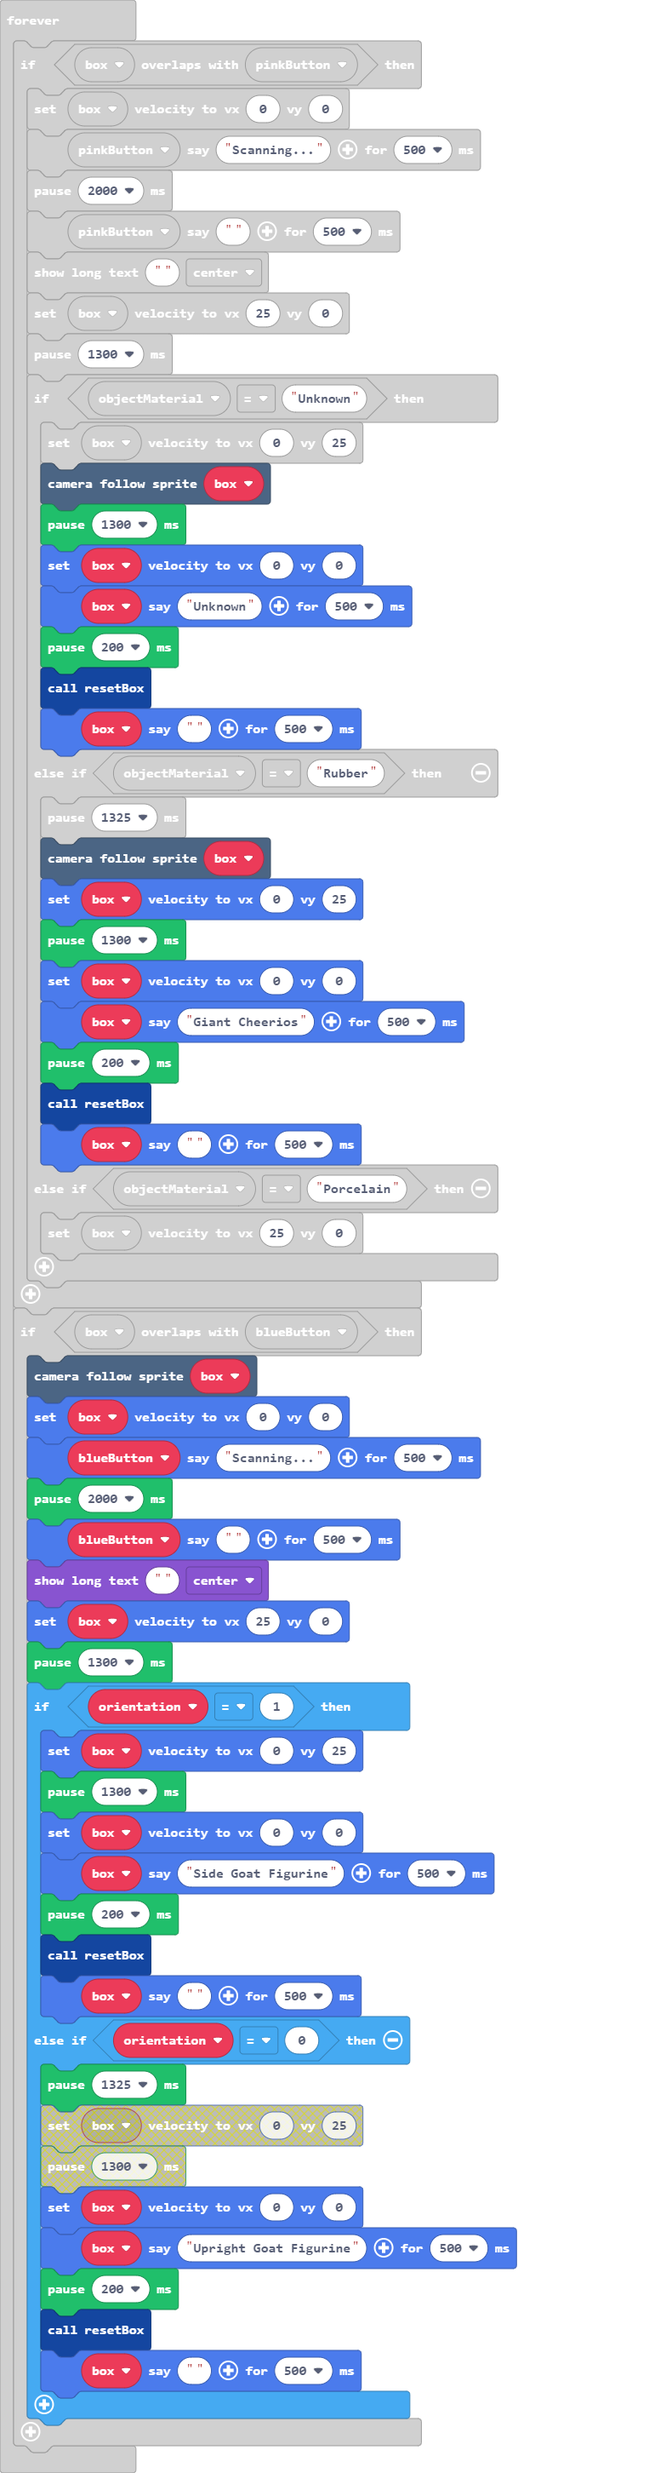
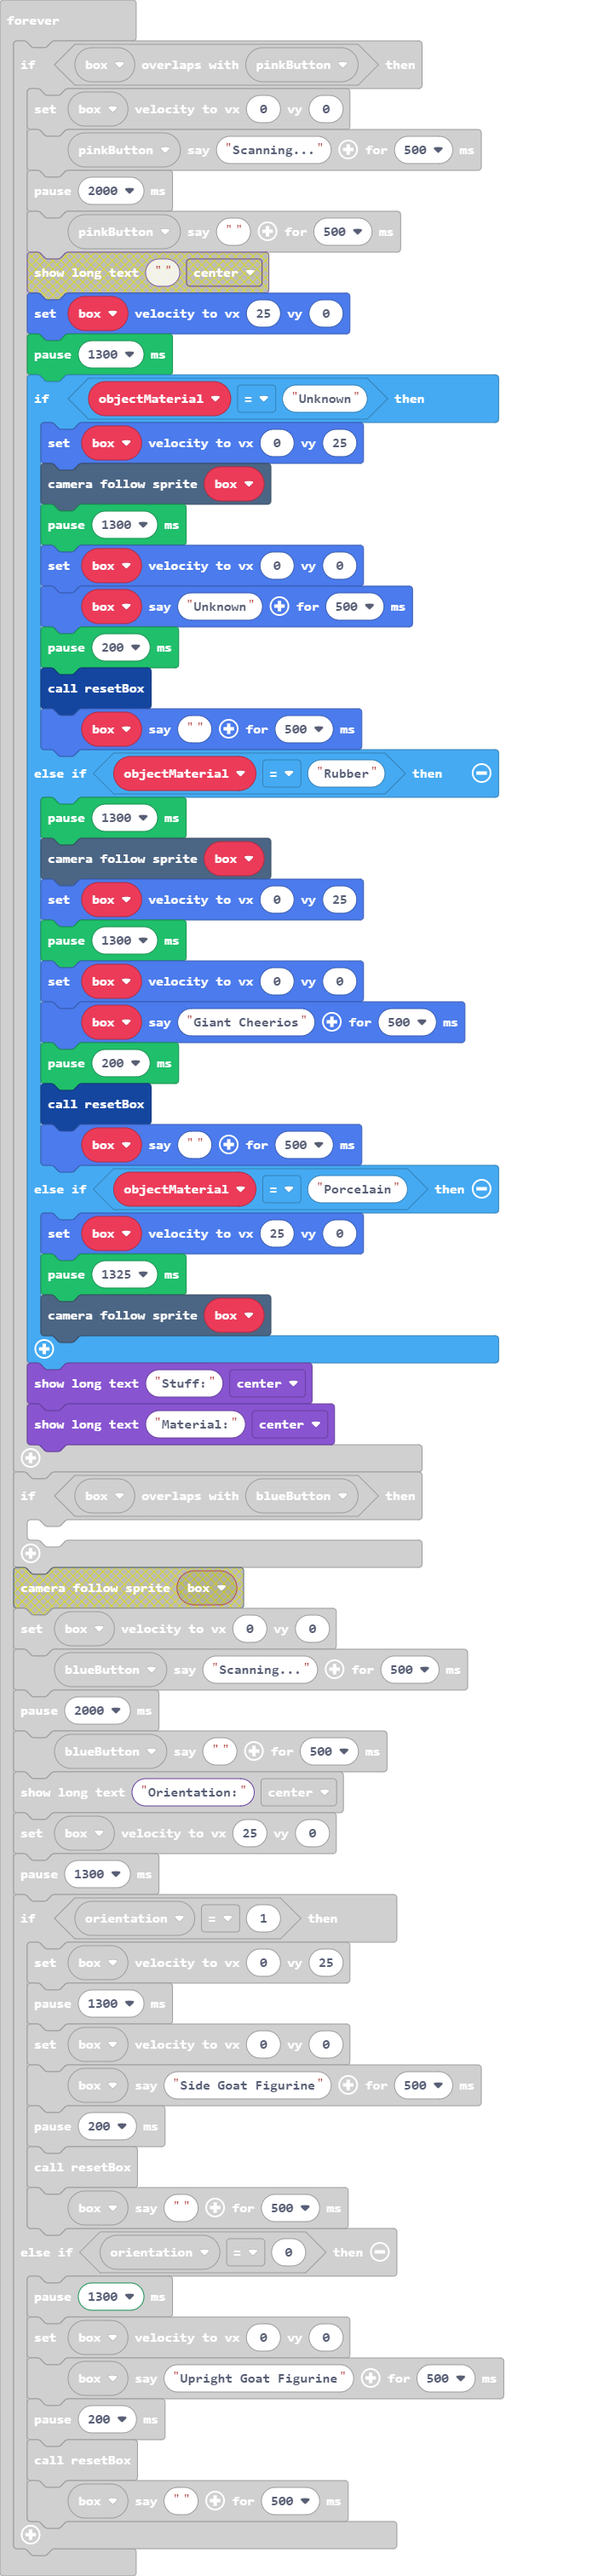
Update main.blocks, main.ts

diff --git a/main.ts b/main.ts
@@ -264,7 +264,8 @@ forever(function () {
         pinkButton.say("Scanning...")
         pause(2000)
         pinkButton.say("")
-        game.showLongText("", DialogLayout.Center)
+        game.showLongText("Stuff:", DialogLayout.Center)
+        game.showLongText("Material:", DialogLayout.Center)
         box.setVelocity(25, 0)
         pause(1300)
         if (objectMaterial == "Unknown") {
@@ -277,7 +278,7 @@ forever(function () {
             resetBox()
             box.say("")
         } else if (objectMaterial == "Rubber") {
-            pause(1325)
+            pause(1300)
             scene.cameraFollowSprite(box)
             box.setVelocity(0, 25)
             pause(1300)
@@ -288,15 +289,16 @@ forever(function () {
             box.say("")
         } else if (objectMaterial == "Porcelain") {
             box.setVelocity(25, 0)
+            pause(1325)
+            scene.cameraFollowSprite(box)
         }
     }
     if (box.overlapsWith(blueButton)) {
-        scene.cameraFollowSprite(box)
         box.setVelocity(0, 0)
         blueButton.say("Scanning...")
         pause(2000)
         blueButton.say("")
-        game.showLongText("", DialogLayout.Center)
+        game.showLongText("Orientation:", DialogLayout.Center)
         box.setVelocity(25, 0)
         pause(1300)
         if (orientation == 1) {
@@ -308,7 +310,7 @@ forever(function () {
             resetBox()
             box.say("")
         } else if (orientation == 0) {
-            pause(1325)
+            pause(1300)
             box.setVelocity(0, 0)
             box.say("Upright Goat Figurine")
             pause(200)
